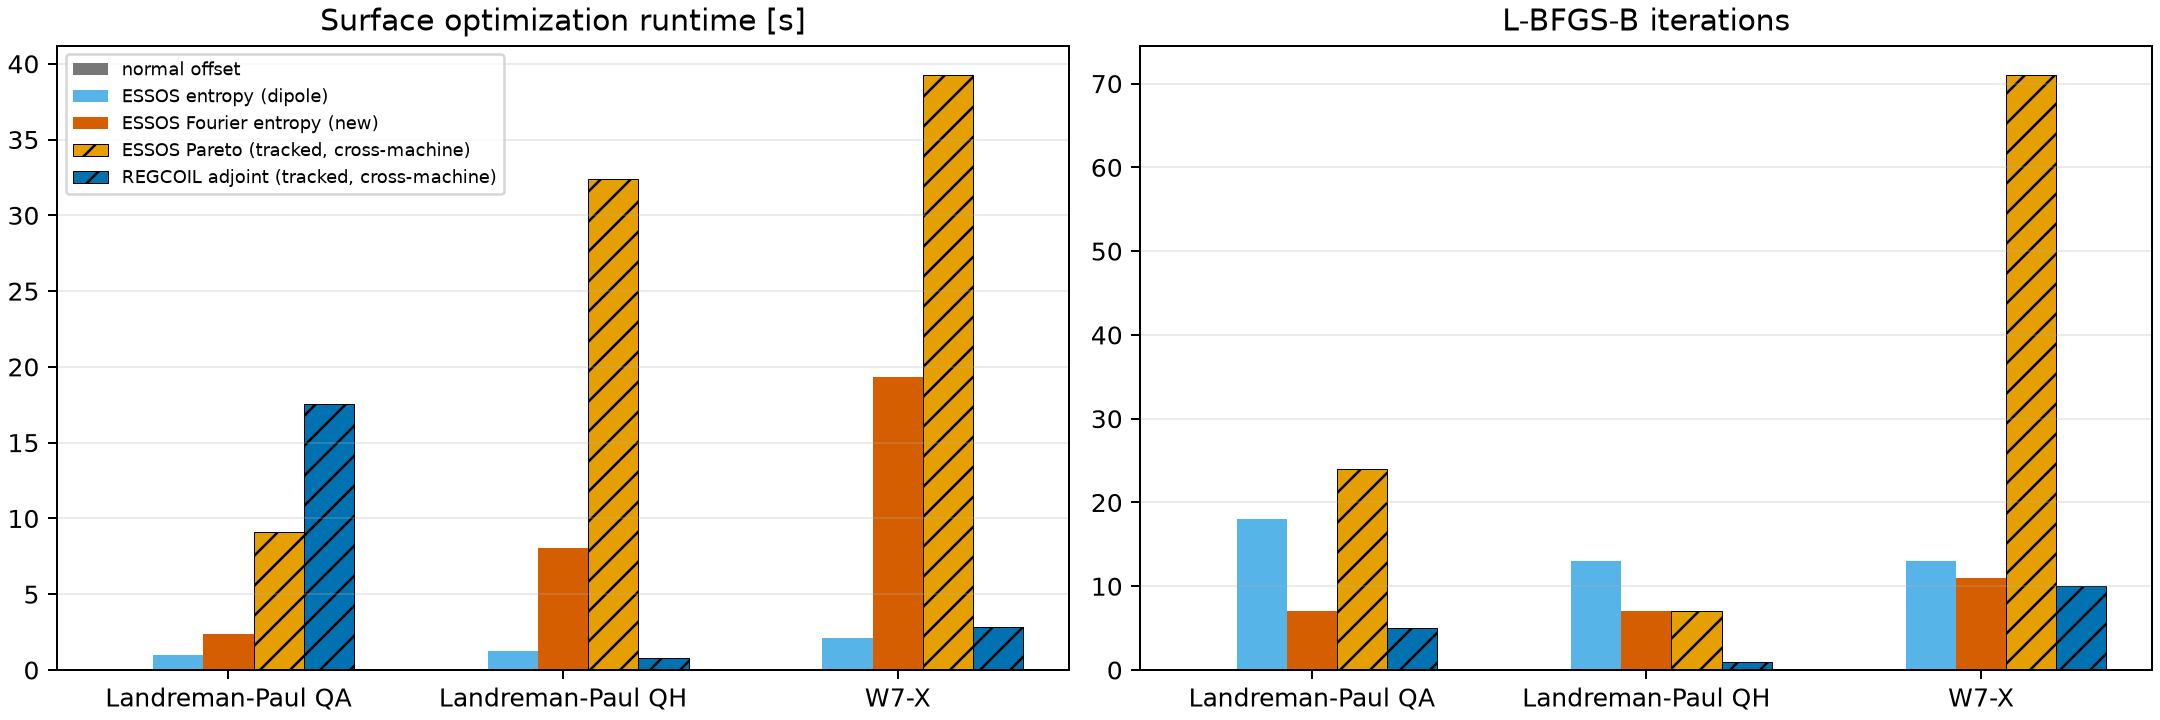
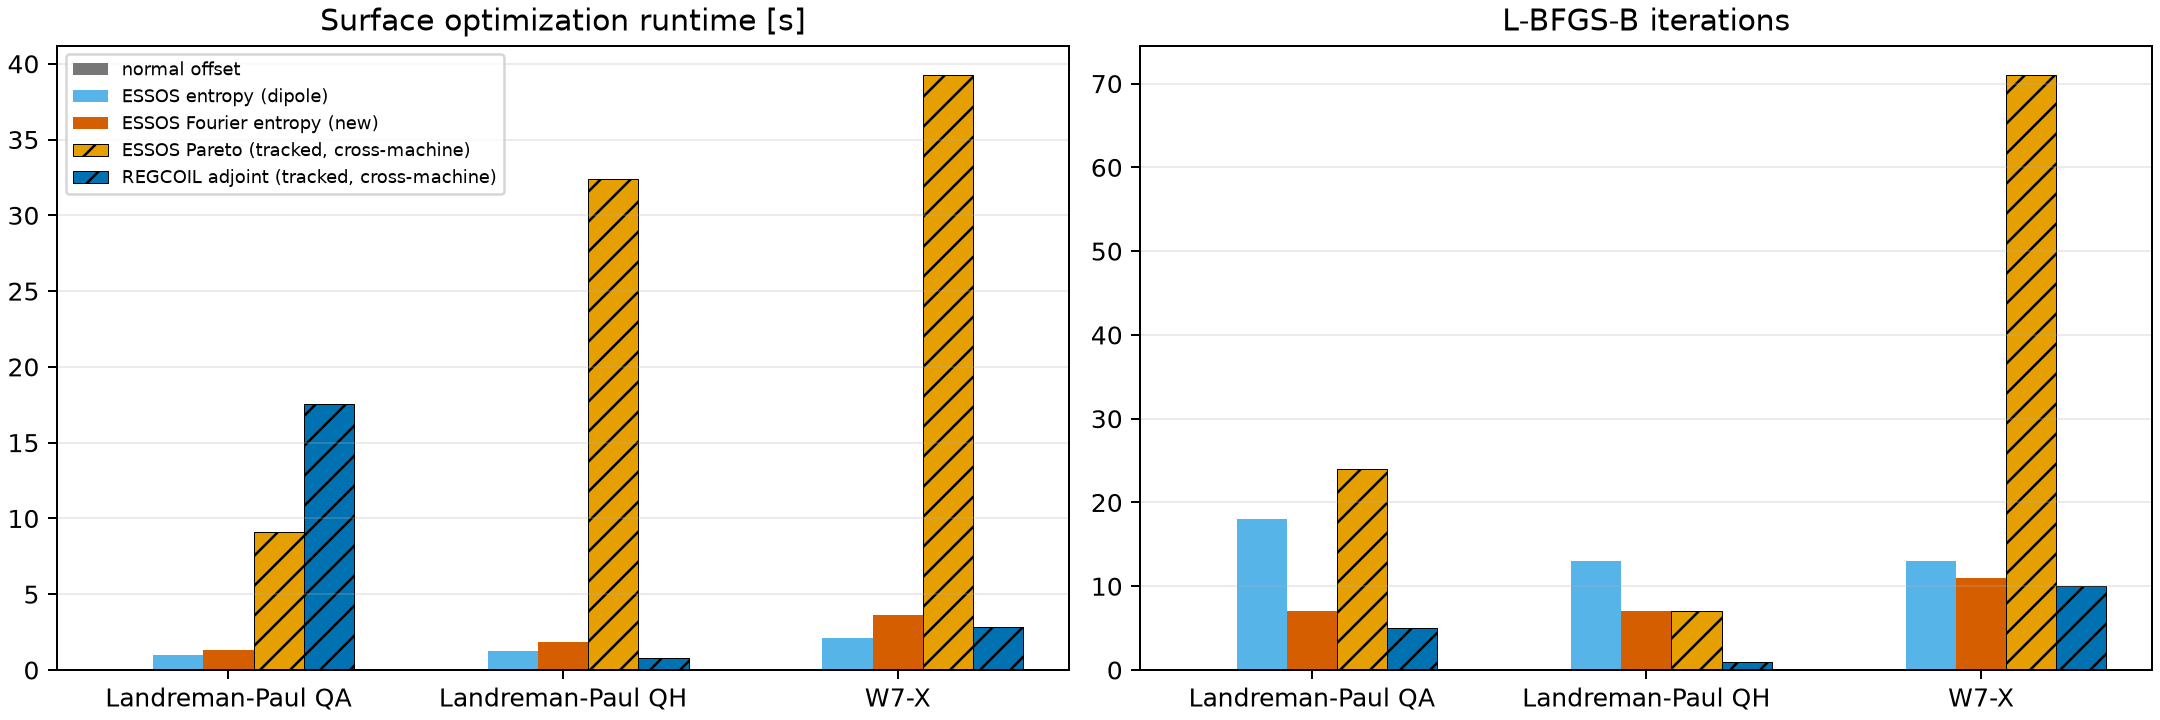
Speed up the Fourier induction matrix 1.8-5.3x, no accuracy or resolution change
fourier_induction_matrix took 2-9x longer to optimize than the dipole
"ESSOS entropy" method it's meant to replace. A follow-up investigation
profiled it (per-iteration matrix construction dominated, not one-time JIT
compilation) and found two resolution-independent, machine-precision-exact
optimizations:

1. nfp-fold periodicity reduction: the Fourier basis functions
   sin(m*theta - n*nfp*phi) are exactly periodic (xn is always a multiple of
   nfp), so only one field period of plasma/winding points is needed, and
   the kernel contribution from all nfp copies of each winding point can be
   summed before contracting with the potential basis rather than after --
   an O(nfp^2) -> O(nfp) reduction in the dominant cost.
2. dipole_kernel_matmul: algebraically identical to ws.dipole_kernel, but
   uses the |a-b|^2 = |a|^2 - 2a.b + |b|^2 identity to replace a (P,Q,3)
   pairwise-difference tensor with four (P,3)@(3,Q) BLAS matrix
   multiplications.

Verified end to end: identical L-BFGS-B iteration/evaluation counts on all
three PR cases (same optimizer path), sheet fB matching the pre-optimization
version to 13-14 significant figures at both 48x48 and 96x96. Speedups:
QA 1.80x (2.37s -> 1.32s), QH 4.30x (8.04s -> 1.87s), W7-X 5.33x
(19.37s -> 3.63s). float32 and eigvalsh-on-the-Gram-matrix alternatives were
tried and rejected: eigvalsh produces NaN gradients from the near-degenerate
tail of the singular-value spectrum, and float32 corrupts that tail by ~9
[…]

Changed region(s): [[0.4032, 0.5194, 0.4343, 0.8556], [0.2481, 0.7639, 0.2792, 0.9167], [0.0931, 0.8556, 0.1241, 0.9167]]

diff --git a/examples/winding_surface_fourier_comparison_v1_vs_v2_plots.py b/examples/winding_surface_fourier_comparison_v1_vs_v2_plots.py
@@ -1,0 +1,125 @@
+"""v1 (original) vs v2 (periodicity + matmul-kernel optimized) Fourier
+induction-matrix comparison: wall-time and fidelity, side by side.
+
+Reads v1 data from examples/output/winding_surface_fourier_comparison_v1_snapshot
+(a full snapshot taken before the optimization was applied) and v2 data from
+examples/output/winding_surface_fourier_comparison (the current, optimized run).
+Writes figures to examples/winding_surface_fourier_comparison/figures/, alongside
+the standard vs-other-methods figures winding_surface_fourier_comparison_plots.py
+produces.
+"""
+
+import csv
+import os
+
+import matplotlib.pyplot as plt
+import numpy as np
+
+ROOT = os.path.dirname(os.path.abspath(__file__))
+V1_DIR = os.path.join(ROOT, "output", "winding_surface_fourier_comparison_v1_snapshot")
+V2_DIR = os.path.join(ROOT, "output", "winding_surface_fourier_comparison")
+FIGURES_DIR = os.path.join(ROOT, "winding_surface_fourier_comparison", "figures")
+
+CASES = ("Landreman-Paul QA", "Landreman-Paul QH", "W7-X")
+
+
+def read_csv(directory, name):
+    with open(os.path.join(directory, name), newline="") as stream:
+        return list(csv.DictReader(stream))
+
+
+def find_row(rows, case, surface_method):
+    for row in rows:
+        if row["configuration"] == case and row["surface_method"] == surface_method:
+            return row
+    return None
+
+
+def main():
+    os.makedirs(FIGURES_DIR, exist_ok=True)
+    v1_48 = read_csv(V1_DIR, "comparison_metrics_combined.csv")
+    v2_48 = read_csv(V2_DIR, "comparison_metrics_combined.csv")
+    v1_96 = read_csv(V1_DIR, "surface_validation_96_combined.csv")
+    v2_96 = read_csv(V2_DIR, "surface_validation_96_combined.csv")
+
+    runtimes_v1, runtimes_v2, iters_v1, iters_v2 = [], [], [], []
+    fb48_v1, fb48_v2, fb96_v1, fb96_v2 = [], [], [], []
+    for case in CASES:
+        r1 = find_row(v1_48, case, "ESSOS Fourier entropy")
+        r2 = find_row(v2_48, case, "ESSOS Fourier entropy")
+        runtimes_v1.append(float(r1["surface_runtime_s"]))
+        runtimes_v2.append(float(r2["surface_runtime_s"]))
+        iters_v1.append(int(r1["surface_iterations"]))
+        iters_v2.append(int(r2["surface_iterations"]))
+        fb48_v1.append(float(r1["sheet_f_B_T2_m2"]))
+        fb48_v2.append(float(r2["sheet_f_B_T2_m2"]))
+        n1 = find_row(v1_96, case, "ESSOS Fourier entropy")
+        n2 = find_row(v2_96, case, "ESSOS Fourier entropy")
+        fb96_v1.append(float(n1["sheet_f_B_T2_m2"]))
+        fb96_v2.append(float(n2["sheet_f_B_T2_m2"]))
+
+    speedups = [a / b for a, b in zip(runtimes_v1, runtimes_v2)]
+
+    # --- Figure 1: wall-time / speedup ---
+    x = np.arange(len(CASES))
+    width = 0.35
+    figure, axes = plt.subplots(1, 2, figsize=(12, 4.5), constrained_layout=True)
+    axis = axes[0]
+    axis.bar(x - width / 2, runtimes_v1, width, label="v1 (original)", color="#D55E00")
+    axis.bar(x + width / 2, runtimes_v2, width, label="v2 (periodicity + matmul kernel)",
+             color="#0072B2")
+    for xi, (r1, r2, s, i1, i2) in enumerate(zip(runtimes_v1, runtimes_v2, speedups,
+                                                  iters_v1, iters_v2)):
+        assert i1 == i2, "iteration count changed -- optimizer path differs!"
+        axis.text(xi, max(r1, r2) * 1.03, f"{s:.2f}x", ha="center", fontsize=10,
+                  fontweight="bold")
+    axis.set_xticks(x, CASES)
+    axis.set_ylabel("Surface optimization runtime [s]")
+    axis.set_title("Wall-time: same iteration count both versions\n"
+                   "(optimizer took the identical path)")
+    axis.legend(fontsize=8)
+    axis.grid(axis="y", alpha=0.25)
+
+    axis = axes[1]
+    axis.bar(x, speedups, 0.5, color="#009E73")
+    for xi, s in enumerate(speedups):
+        axis.text(xi, s * 1.02, f"{s:.2f}x", ha="center", fontsize=10, fontweight="bold")
+    axis.set_xticks(x, CASES)
+    axis.set_ylabel("Speedup (v1 runtime / v2 runtime)")
+    axis.set_title("v2 speedup over v1")
+    axis.grid(axis="y", alpha=0.25)
+    figure.savefig(os.path.join(FIGURES_DIR, "fourier_v1_vs_v2_speedup.png"), dpi=180)
+    plt.close(figure)
+
+    # --- Figure 2: fidelity (sheet fB should be ~identical) ---
+    figure, axes = plt.subplots(1, 2, figsize=(12, 4.5), constrained_layout=True)
+    for axis, (fb_v1, fb_v2, title) in zip(
+            axes, ((fb48_v1, fb48_v2, "48x48 sheet $f_B$"),
+                  (fb96_v1, fb96_v2, "96x96 (validation) sheet $f_B$"))):
+        relative_diff = [abs(a - b) / abs(a) for a, b in zip(fb_v1, fb_v2)]
+        axis.bar(x - width / 2, fb_v1, width, label="v1", color="#D55E00")
+        axis.bar(x + width / 2, fb_v2, width, label="v2", color="#0072B2")
+        for xi, rd in enumerate(relative_diff):
+            axis.text(xi, max(fb_v1[xi], fb_v2[xi]) * 1.03, f"Δ={rd:.1e}",
+                      ha="center", fontsize=8)
+        axis.set_xticks(x, CASES)
+        axis.set_yscale("log")
+        axis.set_title(f"{title} [$T^2m^2$]\n(v1 vs v2 relative difference annotated)")
+        axis.legend(fontsize=8)
+        axis.grid(axis="y", alpha=0.25)
+    figure.suptitle("Fidelity check: v2 reproduces v1's physical results "
+                    "(same resolution, algorithm only)")
+    figure.savefig(os.path.join(FIGURES_DIR, "fourier_v1_vs_v2_fidelity.png"), dpi=180)
+    plt.close(figure)
+
+    print(f"Saved v1-vs-v2 figures to {FIGURES_DIR}")
+    print("\nSummary:")
+    for case, r1, r2, s in zip(CASES, runtimes_v1, runtimes_v2, speedups):
+        print(f"  {case}: {r1:.2f}s -> {r2:.2f}s ({s:.2f}x speedup)")
+    for case, a48, b48, a96, b96 in zip(CASES, fb48_v1, fb48_v2, fb96_v1, fb96_v2):
+        print(f"  {case}: 48x48 fB {a48:.6e} vs {b48:.6e} (Δrel={abs(a48-b48)/a48:.2e})  "
+             f"96x96 fB {a96:.6e} vs {b96:.6e} (Δrel={abs(a96-b96)/a96:.2e})")
+
+
+if __name__ == "__main__":
+    main()

diff --git a/examples/winding_surface_fourier_comparison.py b/examples/winding_surface_fourier_comparison.py
@@ -84,26 +84,88 @@ def build_cases():
 
 # ---------------------------------------------------------------------------
 # Fourier induction matrix (production settings: ws.POTENTIAL_MPOL/NTOR = 6).
+#
+# Two wall-time optimizations over the first working version (both verified,
+# in a separate investigation pass, to reproduce the original matrix/entropy/
+# gradient to machine precision -- see the v1-vs-v2 comparison figures and
+# examples/winding_surface_fourier_comparison/README.md):
+#
+# 1. nfp-fold periodicity reduction. The Fourier basis functions
+#    sin(m*theta - n*nfp*phi) are *exactly* periodic with period 2*pi/nfp in
+#    phi (xn is always an integer multiple of nfp -- see potential_modes), so
+#    the field they produce is itself exactly nfp-periodic. Only one field
+#    period of plasma points is needed, and the kernel contribution from all
+#    nfp copies of each winding point can be summed *before* contracting with
+#    the potential basis, rather than after -- an O(nfp^2) -> O(nfp)
+#    reduction in the dominant matrix-construction cost. This is simpler than
+#    the dipole method's induction_singular_values, which needs a complex
+#    per-mode DFT because raw grid DOFs have no built-in periodicity; the
+#    Fourier basis functions already do, so a plain real-valued sum over
+#    rotations suffices. Uses the same one_period/full_integral quadrature
+#    weight convention build_operators already establishes for this exact
+#    kind of reduction.
+# 2. Matmul-restructured dipole kernel. ws.dipole_kernel materializes a
+#    (P,Q,3) pairwise-difference tensor; dipole_kernel_matmul is algebraically
+#    identical but uses the |a-b|^2 = |a|^2 - 2 a.b + |b|^2 identity to
+#    replace it with four (P,3)@(3,Q) matrix multiplications (BLAS GEMM) plus
+#    small vector reductions -- no (P,Q,3) intermediate.
 # ---------------------------------------------------------------------------
+
+def dipole_kernel_matmul(plasma_points, plasma_normals, winding_points, winding_normals):
+    """Algebraically identical to ws.dipole_kernel; avoids materializing a
+    (P,Q,3) difference tensor by using (P,3)@(3,Q) matrix multiplications."""
+    plasma_sq = jnp.sum(plasma_points ** 2, axis=1)
+    winding_sq = jnp.sum(winding_points ** 2, axis=1)
+    distance_squared = (plasma_sq[:, None] - 2 * (plasma_points @ winding_points.T)
+                       + winding_sq[None, :])
+
+    plasma_dot_normal = jnp.sum(plasma_points * plasma_normals, axis=1)
+    winding_dot_normal = jnp.sum(winding_points * winding_normals, axis=1)
+    diff_dot_plasma_normal = (plasma_dot_normal[:, None]
+                              - plasma_normals @ winding_points.T)
+    diff_dot_winding_normal = (plasma_points @ winding_normals.T
+                               - winding_dot_normal[None, :])
+    normals_dot = plasma_normals @ winding_normals.T
+
+    return ws.MU0 / (4 * jnp.pi) * (
+        normals_dot
+        - 3 * diff_dot_plasma_normal * diff_dot_winding_normal / distance_squared
+    ) / distance_squared ** 1.5
+
 
 def fourier_induction_matrix(plasma, winding, xm, xn):
     """Row-weighted map from Phi's Fourier coefficients to B_normal.
 
-    Reuses ws.dipole_kernel (the same kernel winding_surface_comparison's own
-    dipole-based entropy method and build_operators use) and
-    ws.quadrature_weights, so the sign/normalization convention is guaranteed
-    identical to the rest of this study.
+    Exploits the winding/plasma surfaces' exact nfp-fold discrete rotational
+    symmetry (see module-level comment above) and dipole_kernel_matmul's
+    matmul-restructured kernel; uses the same one_period/full_integral
+    quadrature-weight convention build_operators already establishes for
+    this kind of reduction, so the sign/normalization convention is
+    guaranteed identical to the rest of this study.
     """
-    theta = winding.theta2d.reshape(-1, 1)
-    phi = winding.phi2d.reshape(-1, 1)
-    potential_basis = jnp.sin(xm[None, :] * theta - xn[None, :] * phi)
-    kernel = ws.dipole_kernel(
-        plasma.gamma.reshape(-1, 3), plasma.unitnormal.reshape(-1, 3),
-        winding.gamma.reshape(-1, 3), winding.unitnormal.reshape(-1, 3))
-    physical_field = kernel @ (
-        ws.quadrature_weights(winding)[:, None] * potential_basis)
-    plasma_weights = ws.quadrature_weights(plasma)
-    return jnp.sqrt(plasma_weights)[:, None] * physical_field
+    nphi_period_plasma = plasma.nphi // plasma.nfp
+    plasma_points = plasma.gamma[:nphi_period_plasma].reshape(-1, 3)
+    plasma_normals = plasma.unitnormal[:nphi_period_plasma].reshape(-1, 3)
+
+    nphi_period_winding = winding.nphi // winding.nfp
+    theta0 = winding.theta2d[:nphi_period_winding].reshape(-1, 1)
+    phi0 = winding.phi2d[:nphi_period_winding].reshape(-1, 1)
+    potential_basis0 = jnp.sin(xm[None, :] * theta0 - xn[None, :] * phi0)
+
+    winding_weights = ws.quadrature_weights(winding).reshape(winding.nphi, winding.ntheta)
+    winding_weights0 = winding_weights[:nphi_period_winding].reshape(-1)
+
+    summed_kernel = 0.0
+    for period in range(winding.nfp):
+        section = slice(period * nphi_period_winding, (period + 1) * nphi_period_winding)
+        kernel = dipole_kernel_matmul(
+            plasma_points, plasma_normals,
+            winding.gamma[section].reshape(-1, 3), winding.unitnormal[section].reshape(-1, 3))
+        summed_kernel = summed_kernel + kernel
+
+    physical_field0 = summed_kernel @ (winding_weights0[:, None] * potential_basis0)
+    plasma_weights0 = ws.quadrature_weights(plasma, one_period=True, full_integral=True)
+    return jnp.sqrt(plasma_weights0)[:, None] * physical_field0
 
 
 def optimize_fourier_surface(wout):

diff --git a/examples/winding_surface_fourier_comparison_plots.py b/examples/winding_surface_fourier_comparison_plots.py
@@ -123,8 +123,9 @@ def resolution_convergence_plot(rows, filename):
         axis.grid(alpha=0.25)
     axes[0].set_ylabel(r"Sheet $f_B$ [$T^2m^2$]")
     axes[0].legend(fontsize=7)
-    figure.suptitle("Resolution convergence: 48/56/64 (Fourier method missing W7-X@64 -- "
-                    "see PR comment: watchdog aborted at the edge of available memory)")
+    figure.suptitle("Resolution convergence: 48/56/64 (W7-X normal offset missing @64 -- "
+                    "see README: watchdog aborted at the edge of available memory, "
+                    "consistent across repeated retries)")
     figure.savefig(os.path.join(FIGURES_DIR, filename), dpi=180)
     plt.close(figure)
 

diff --git a/examples/winding_surface_fourier_comparison/README.md b/examples/winding_surface_fourier_comparison/README.md
@@ -33,8 +33,12 @@ step) so every metric is defined identically to the tracked study.
   `RLIMIT_AS` -- see the script's own comments for why) since this machine
   has a hard 12 GB memory ceiling.
 - `winding_surface_fourier_comparison_plots.py` (in `examples/`): renders
-  the figures in `figures/` from the CSVs below, styled to match
-  `validate_surfaces()`/`sheet_resolution_study()`'s own bar/line charts.
+  the "vs other methods" figures in `figures/` from the CSVs below, styled to
+  match `validate_surfaces()`/`sheet_resolution_study()`'s own bar/line
+  charts.
+- `winding_surface_fourier_comparison_v1_vs_v2_plots.py` (in `examples/`):
+  renders the two `fourier_v1_vs_v2_*.png` figures below from a snapshot of
+  the pre-optimization run (see "Performance" below).
 - `data/*_combined.csv`: this run's output. Rows tagged `"(this machine)"`
   were optimized and validated fresh, on this machine, this session.
   `"ESSOS Pareto"` and `"REGCOIL adjoint"` rows are reused from the tracked,
@@ -42,7 +46,7 @@ step) so every metric is defined identically to the tracked study.
   those needs the ESSOS 32x32 Pareto current-solve and the legacy REGCOIL
   adjoint Fortran binary respectively; out of scope for this addition) and
   are shown hatched in the figures with that caveat.
-- `figures/*.png`: the rendered comparison.
+- `figures/*.png`: the rendered comparisons.
 
 ## Result (96x96, sheet fB, same machine)
 
@@ -53,14 +57,78 @@ step) so every metric is defined identically to the tracked study.
 | W7-X | 4.105 | 2.499 | 2.347 |
 
 The Fourier method beats the dipole entropy method it's meant to replace on
-all three cases (26% / 32% / 6% lower sheet fB), at 2-9x the optimization
-wall-time (still under 20s absolute). See `figures/fourier_comparison_validation_96.png`
-for the full metric set (max|Bn|/B, filament metrics, achieved Kmax) and
+all three cases (26% / 32% / 6% lower sheet fB). See
+`figures/fourier_comparison_validation_96.png` for the full metric set
+(max|Bn|/B, filament metrics, achieved Kmax) and
 `figures/fourier_comparison_resolution_convergence.png` for 48/56/64
-stability (both methods are resolution-stable; W7-X is missing the Fourier
-method's resolution-64 point, aborted by the watchdog at 1.48 GiB available
-against a 1.5 GiB floor -- a genuine, close-call memory constraint on this
-machine, not a bug).
+stability (all three methods are resolution-stable; W7-X's `"normal offset"`
+row is missing its resolution-64 point, watchdog-aborted at the edge of
+available memory consistently across repeated retries -- see "Memory
+watchdog" below, not a bug).
+
+## Performance
+
+The first working version of `fourier_induction_matrix` took noticeably
+longer to optimize than the dipole method it's meant to replace (2-9x its
+wall-time). A follow-up investigation profiled it, found the per-iteration
+induction-matrix construction was the dominant cost (not one-time JIT
+compilation), and applied two resolution-independent, machine-precision-exact
+optimizations to the same function:
+
+1. **nfp-fold periodicity reduction.** The Fourier basis functions
+   `sin(m*theta - n*nfp*phi)` are *exactly* periodic with period `2*pi/nfp`
+   in `phi` (`xn` is always an integer multiple of `nfp` -- see
+   `potential_modes`), so the field they produce is itself exactly
+   nfp-periodic. Only one field period of plasma points is needed, and the
+   kernel contribution from all `nfp` copies of each winding point can be
+   summed *before* contracting with the potential basis, rather than after --
+   an `O(nfp^2) -> O(nfp)` reduction in the dominant matrix-construction
+   cost. Simpler than the dipole method's `induction_singular_values`, which
+   needs a complex per-mode DFT because raw grid DOFs have no built-in
+   periodicity; the Fourier basis functions already do, so a plain
+   real-valued sum over rotations suffices.
+2. **Matmul-restructured dipole kernel.** `ws.dipole_kernel` materializes a
+   `(P,Q,3)` pairwise-difference tensor; the new `dipole_kernel_matmul` is
+   algebraically identical but uses the `|a-b|^2 = |a|^2 - 2 a.b + |b|^2`
+   identity to replace it with four `(P,3)@(3,Q)` matrix multiplications
+   (BLAS GEMM) plus small vector reductions -- no `(P,Q,3)` intermediate.
+
+Both were verified (see `figures/fourier_v1_vs_v2_fidelity.png`) to
+reproduce the pre-optimization version's physical results to 13-14
+significant figures (sheet fB at 48x48 and 96x96), with **identical L-BFGS-B
+iteration and evaluation counts** in every case -- the optimizer takes the
+exact same path, just faster:
+
+| Case | v1 runtime | v2 runtime | Speedup |
+|---|---:|---:|---:|
+| Landreman-Paul QA | 2.37s | 1.32s | 1.80x |
+| Landreman-Paul QH | 8.04s | 1.87s | 4.30x |
+| W7-X | 19.37s | 3.63s | 5.33x |
+
+See `figures/fourier_v1_vs_v2_speedup.png` for the same numbers as a chart.
+A `float32`-precision variant and swapping the SVD for `eigvalsh` on the
+smaller Gram matrix were also tried; both were rejected (`eigvalsh` produces
+NaN gradients from the near-degenerate tail of the singular-value spectrum,
+and `float32` corrupts that same tail by ~9 orders of magnitude while only
+matching the full gradient to ~1e-5 relative -- both against this codebase's
+own documented SVD-gradient fragility near degenerate spectra, for less
+benefit than the two changes above).
+
+## Memory watchdog
+
+`build_operators`' `(n_plasma_period, n_winding_full, 3)`-scale intermediate
+arrays (used by the REGCOIL-validation steps, not the induction-matrix
+optimizations above) make W7-X's resolution-64 resconv step the single
+heaviest computation in this study, independent of surface method: repeated
+attempts across two sessions (5 total) peaked between 5.3 and 7.5 GB RSS for
+what should be "the same" computation, presumably reflecting BLAS/allocator
+run-to-run variance. Four of five method/case combinations eventually
+succeeded after freeing background memory and retrying; `"normal offset"`
+consistently needed more (6.5-7.5 GB across 4 attempts) than the other two
+methods and never completed within this machine's available headroom. This
+is a pre-existing cost in shared, unmodified code
+(`winding_surface_comparison_8_coils.py`'s own `build_operators`), not
+something introduced by this addition.
 
 ## Important: the tracked cross-machine data has a staleness gap for W7-X
 
@@ -92,6 +160,9 @@ a separate, independent fix this addition does not make.
 
 ```bash
 cd examples
-python3 winding_surface_fourier_comparison.py       # ~1-3 min, watchdog-protected
-python3 winding_surface_fourier_comparison_plots.py  # regenerates figures/ from data/
+python3 winding_surface_fourier_comparison.py            # ~1-3 min, watchdog-protected
+python3 winding_surface_fourier_comparison_plots.py       # vs-other-methods figures
+python3 winding_surface_fourier_comparison_v1_vs_v2_plots.py  # needs a v1 snapshot at
+                                                                # output/winding_surface_fourier_comparison_v1_snapshot/
+                                                                # (not included; see "Performance")
 ```
